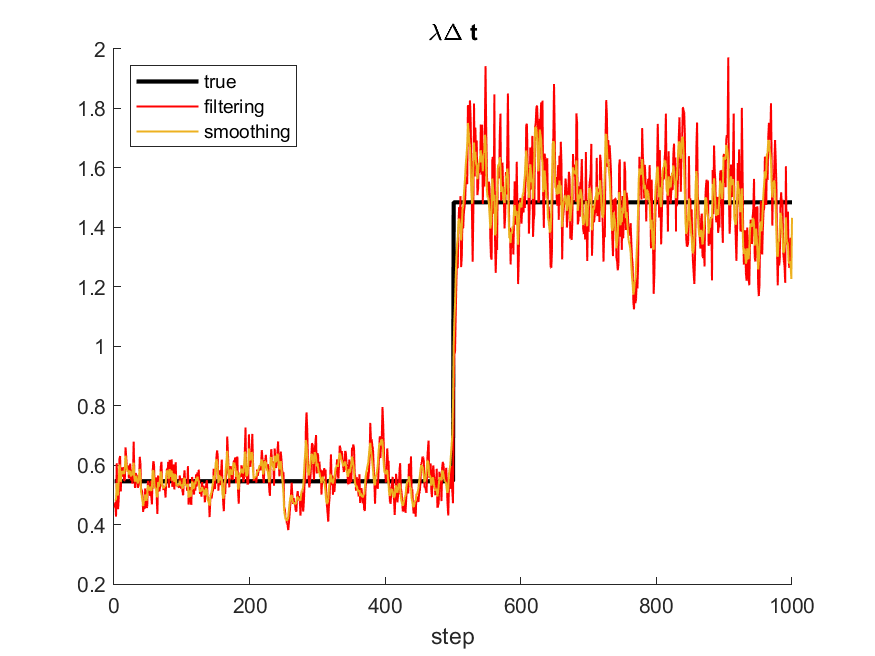
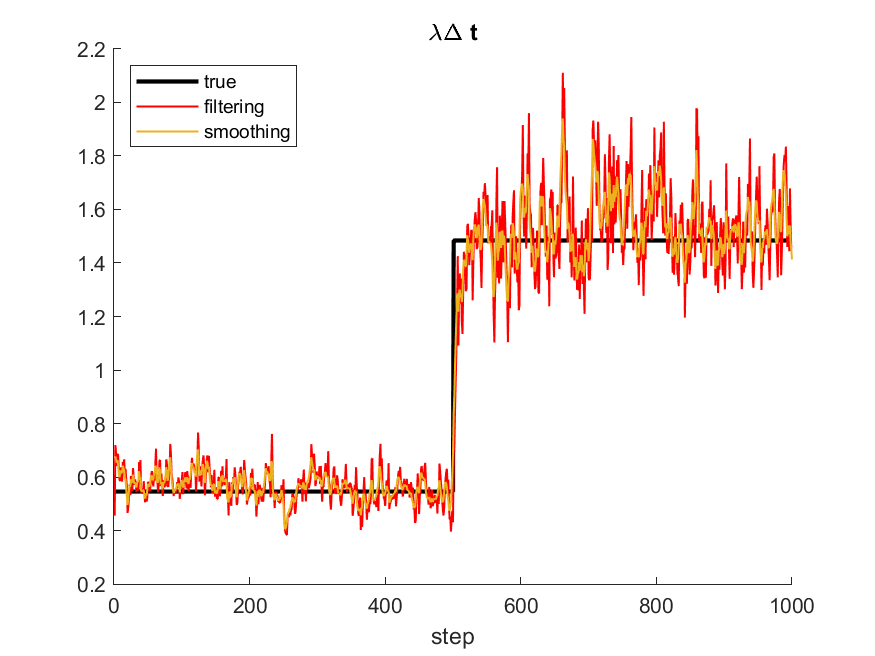
initial values, outliers

diff --git a/demo2.m b/demo2.m
@@ -63,7 +63,7 @@ l5 = plot(theta_fit4(1, :),'color', [0.9290, 0.6940, 0.1250], 'LineWidth', 1);
 % plot(theta_fit1(1, :) - sqrt(squeeze(W_fit1(1, 1, :)))', 'b:', 'LineWidth', .5)
 % plot(theta_fit2(1, :) + sqrt(squeeze(W_fit2(1, 1, :)))', 'c:', 'LineWidth', .5)
 % plot(theta_fit2(1, :) - sqrt(squeeze(W_fit2(1, 1, :)))', 'c:', 'LineWidth', .5)
-legend('true', 'filtering', 'filterin-fisher',...
+legend('true', 'filtering', 'filtering-fisher',...
     'smoothing', 'smoothing-fisher', 'Location','northwest');
 title('\theta for \lambda')
 xlabel('step')
@@ -83,7 +83,7 @@ l5 = plot(theta_fit4(2, :),'color', [0.9290, 0.6940, 0.1250], 'LineWidth', 1);
 % plot(theta_fit1(2, :) - sqrt(squeeze(W_fit1(2, 2, :)))', 'b:', 'LineWidth', .5)
 % plot(theta_fit2(2, :) + sqrt(squeeze(W_fit2(2, 2, :)))', 'c:', 'LineWidth', .5)
 % plot(theta_fit2(2, :) - sqrt(squeeze(W_fit2(2, 2, :)))', 'c:', 'LineWidth', .5)
-legend('true', 'filtering', 'filterin-fisher',...
+legend('true', 'filtering', 'filtering-fisher',...
     'smoothing', 'smoothing-fisher', 'Location','northwest');
 title('\theta for \nu')
 xlabel('step')

diff --git a/ppafilt_compoisson.m b/ppafilt_compoisson.m
@@ -1,8 +1,8 @@
 function [theta,W] = ppafilt_compoisson(N,X_lam,G_nu,W0,F,Q,dt)
 
 % newton raphson
-% theta0 = nf_initial(N(:, 1), X_lam(1,:), G_nu(1,:), dt);
-theta0 = nf_fisher_initial(N(:, 1), X_lam(1,:), G_nu(1,:), dt);
+theta0 = nf_initial(N(:, 1), X_lam(1,:), G_nu(1,:), dt);
+% theta0 = nf_fisher_initial(N(:, 1), X_lam(1,:), G_nu(1,:), dt);
 
 n_spk = size(N, 2);
 nCell = size(N, 1);

diff --git a/nf_fisher_initial.m b/nf_fisher_initial.m
@@ -10,8 +10,12 @@ tol = 1e-12;
 
 % ignoring (nu-1)/2*nu in E(Y) yields
 % nu = E(Y)/Var(Y) = mean(Y)/var(Y)
+
+% delete the outlier (Q1 - 1.5IQR <= y <= Q3 + 1.5IQR)
+y = rmoutliers(y, 'quartiles');
 theta0 = [((x_lam*x_lam')^-1)*x_lam*(log(mean(y)) - log(dt));...
     ((g_nu*g_nu')^-1)*g_nu*(log(mean(y)) -log(var(y)) - log(dt))];
+
 
 thetaPre = theta0;
 for k = 1:maxIter

diff --git a/nf_initial.m b/nf_initial.m
@@ -10,6 +10,9 @@ tol = 1e-12;
 
 % ignoring (nu-1)/2*nu in E(Y) yields
 % nu = E(Y)/Var(Y) = mean(Y)/var(Y)
+
+% delete the outlier (Q1 - 1.5IQR <= y <= Q3 + 1.5IQR)
+y = rmoutliers(y, 'quartiles');
 theta0 = [((x_lam*x_lam')^-1)*x_lam*(log(mean(y)) - log(dt));...
     ((g_nu*g_nu')^-1)*g_nu*(log(mean(y)) -log(var(y)) - log(dt))];
 

diff --git a/debuger.m b/debuger.m
@@ -8,4 +8,6 @@ x_lam = X_lam(1,:);
 g_nu = G_nu(1,:);
 
 
+boxplot(N(:, 1:10))
+
 -nu(i)*dt*sum_logfac + nCell*nu(i)*dt*C/Z

diff --git a/demo.m b/demo.m
@@ -1,4 +1,4 @@
-rng(12)
+rng(123)
 
 %% demo 1: step lambda + step nu
 T = 10;

diff --git a/README.md b/README.md
@@ -22,7 +22,7 @@ Well, all looks good, although lambda for example 3 is not super ideal. This may
 
 <img src="https://github.com/weigcdsb/COM_POISSON/blob/main/theta1_fisher.png" width="400"/><img src="https://github.com/weigcdsb/COM_POISSON/blob/main/theta2_fisher.png" width="400"/>
 
-Here's one problem. Basically, I initialized the value by Newton-Raphson. However, it's quite unstable... Even I replace Hessian with Fisher information...(But there are tons of research about this, and I will do some literature review later)
+Here's one problem. Basically, I initialized the value by Newton-Raphson. However, it's quite unstable (not robust to outlier), even when I replace Hessian with Fisher information (equivalent to IRLS)... Since Newton-Raphson/ IRLS uses data again and again (iteratively), even a single outlier will damage the algorithm a lot. So, for the initial value estimation, I simply delete outliers (outside [Q1 - 1.5IQR, Q3 + 1.5IQR]). The fisher scoring  in the filtering (smoothing) will not be influenced a lot by outliers, since the data at each step is only used once directly.
 
 For interpretation, maybe we can consider to reparametrize to mu and nu, where E(Y) = mu*(Delta t)? (https://journals.sagepub.com/doi/abs/10.1177/1471082X17697749) Well, that doesn't add too much...
 
